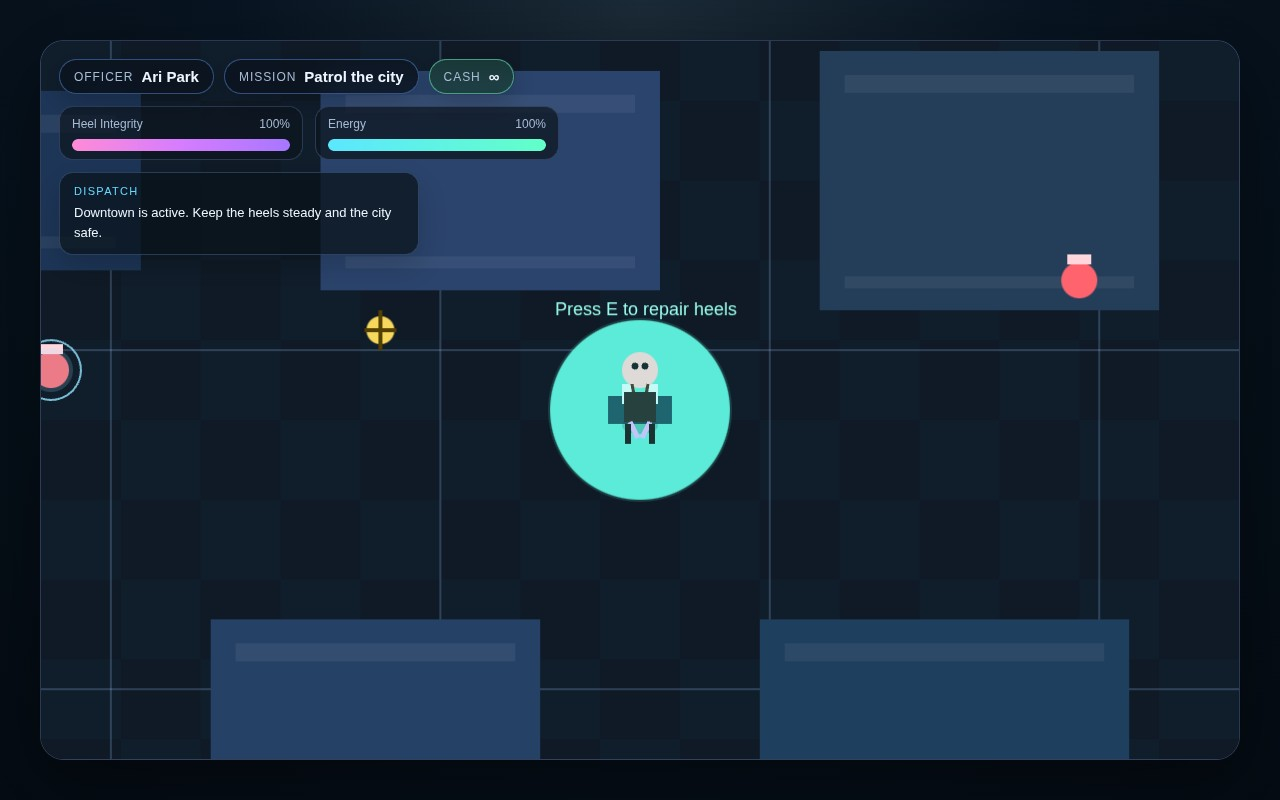
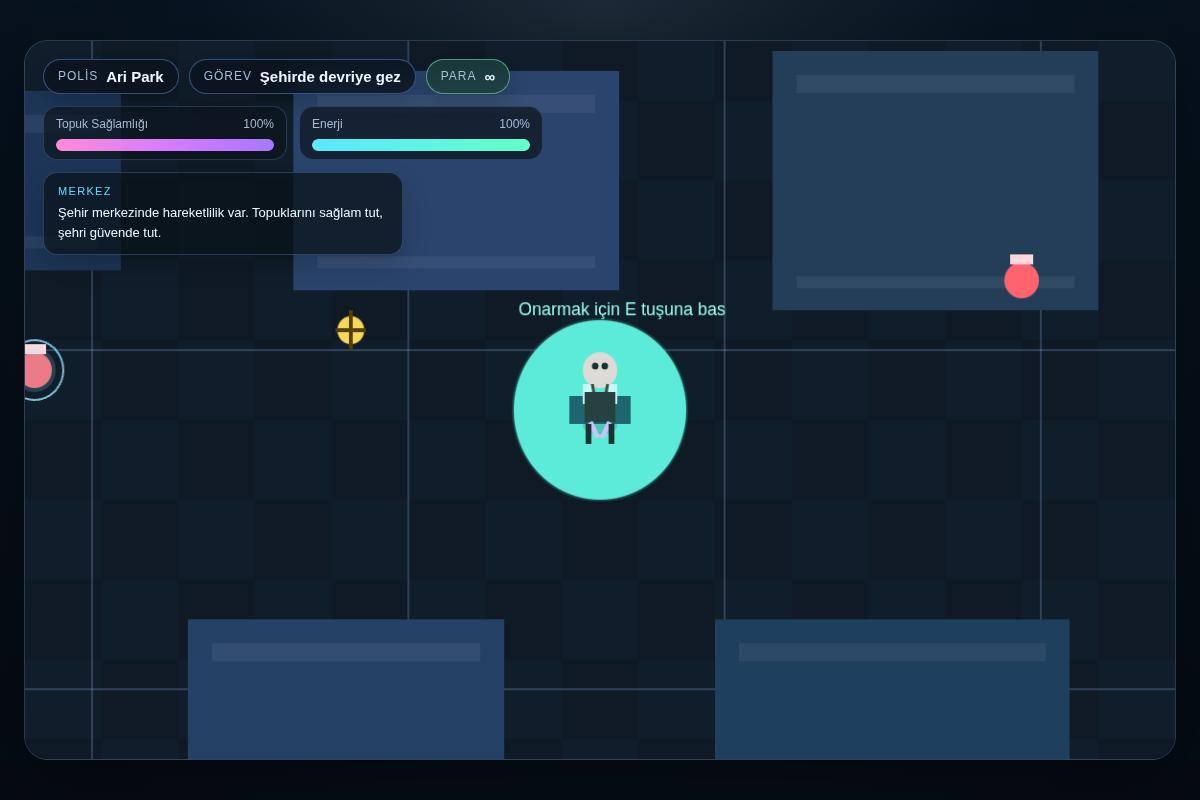
Publish static build for issue #3
Run: 43627223294
Attempt: 1
Generation: 5
Source: e72d35e35dca67fabd8f09816c2d658437840635

diff --git a/game.js b/game.js
@@ -35,19 +35,19 @@ const buildingRects = [
 const shop = { x: 1080, y: 550, radius: 90 };
 
 const suspectSpawns = [
-  { x: 490, y: 510, radius: 18, name: 'Rooftop thief' },
-  { x: 1520, y: 420, radius: 18, name: 'Stolen bike gang' },
-  { x: 980, y: 1480, radius: 18, name: 'Counterfeit ring' },
-  { x: 1820, y: 990, radius: 18, name: 'Bodega arson' },
-  { x: 650, y: 1800, radius: 18, name: 'Extortion crew' }
+  { x: 490, y: 510, radius: 18, name: 'Çatı hırsızı' },
+  { x: 1520, y: 420, radius: 18, name: 'Bisiklet hırsızları çetesi' },
+  { x: 980, y: 1480, radius: 18, name: 'Sahte yüzük çetesi' },
+  { x: 1820, y: 990, radius: 18, name: 'Bakkal kundakçısı' },
+  { x: 650, y: 1800, radius: 18, name: 'Gasp çetesi' }
 ];
 
 const evidenceSpawns = [
-  { x: 340, y: 930, radius: 14, type: 'cash trace' },
-  { x: 820, y: 470, radius: 14, type: 'phone signal' },
-  { x: 1490, y: 1010, radius: 14, type: 'lockpick kit' },
-  { x: 1810, y: 1650, radius: 14, type: 'stolen invoice' },
-  { x: 1120, y: 1950, radius: 14, type: 'tracked bag' }
+  { x: 340, y: 930, radius: 14, type: 'para izi' },
+  { x: 820, y: 470, radius: 14, type: 'telefon sinyali' },
+  { x: 1490, y: 1010, radius: 14, type: 'maymuncuk takımı' },
+  { x: 1810, y: 1650, radius: 14, type: 'çalınmış fatura' },
+  { x: 1120, y: 1950, radius: 14, type: 'takip cihazlı çanta' }
 ];
 
 const game = {
@@ -61,7 +61,7 @@ const game = {
   objectivesCleared: 0,
   currentMessage: '',
   messageTimer: 0,
-  missionState: 'Patrol the city'
+  missionState: 'Şehirde devriye gez'
 };
 
 const player = {
@@ -74,13 +74,13 @@ const player = {
   direction: 0,
   invulnerable: 0,
   canMove: true,
-  attire: 'Black heels'
+  attire: 'Siyah topuklu ayakkabılar'
 };
 
 const worldState = {
   suspects: suspectSpawns.map((item) => ({ ...item, captured: false })),
   evidence: evidenceSpawns.map((item) => ({ ...item, collected: false })),
-  objectiveText: 'Escort the petition run and check all hotspots.'
+  objectiveText: 'Dilekçe konvoyuna eşlik et ve tüm olay noktalarını kontrol et.'
 };
 
 const camera = { x: 0, y: 0 };
@@ -114,9 +114,9 @@ function resetGame() {
   restartBtn.classList.add('hidden');
   worldState.suspects = suspectSpawns.map((item) => ({ ...item, captured: false }));
   worldState.evidence = evidenceSpawns.map((item) => ({ ...item, collected: false }));
-  updateMissionText('Patrol the city');
-  updateLog('Downtown is active. Keep the heels steady and the city safe.');
-  setMessage('Shift started. Keep moving.');
+  updateMissionText('Şehirde devriye gez');
+  updateLog('Şehir merkezinde hareketlilik var. Topuklarını sağlam tut, şehri güvende tut.');
+  setMessage('Vardiya başladı. Harekete geç.');
 }
 
 function clamp(value, min, max) {
@@ -138,7 +138,7 @@ function updateMissionText(text) {
 }
 
 function updateLog(text) {
-  missionLog.innerHTML = `<div class="log-title">Dispatch</div><p>${text}</p>`;
+  missionLog.innerHTML = `<div class="log-title">Merkez</div><p>${text}</p>`;
 }
 
 function handleInteraction() {
@@ -146,12 +146,12 @@ function handleInteraction() {
     if (player.heelIntegrity < 100 || player.energy < 100) {
       player.heelIntegrity = 100;
       player.energy = 100;
-      setMessage('New heels fitted. Officer back in motion.');
-      updateLog('Shoe store restocked. Heel replacement completed before the next alert.');
+      setMessage('Yeni topuklu ayakkabılarını giydin. Devriyeye hazırsın.');
+      updateLog('Ayakkabı mağazası stoklarını yeniledi. Yeni bir ihbar gelmeden topukların değiştirildi.');
       return;
     }
 
-    setMessage('Heels and energy already at full strength.');
+    setMessage('Topukların ve enerjin zaten tamamen dolu.');
     return;
   }
 
@@ -159,16 +159,16 @@ function handleInteraction() {
   if (suspect) {
     suspect.captured = true;
     game.objectivesCleared += 1;
-    setMessage(`Suspect caught: ${suspect.name}.`);
-    updateLog(`Suspect neutralized: ${suspect.name}. Patrol route is holding.`);
+    setMessage(`Şüpheli yakalandı: ${suspect.name}.`);
+    updateLog(`${suspect.name} etkisiz hâle getirildi. Devriye güzergâhı güvende.`);
     checkCompletion();
   }
 
   const evidence = worldState.evidence.find((e) => !e.collected && distance(player.x, player.y, e.x, e.y) < 34);
   if (evidence) {
     evidence.collected = true;
-    setMessage(`Evidence secured: ${evidence.type}.`);
-    updateLog(`Recovered ${evidence.type}. Every clue strengthens the case.`);
+    setMessage(`Delil güvenceye alındı: ${evidence.type}.`);
+    updateLog(`${evidence.type} bulundu. Her ipucu davayı güçlendiriyor.`);
     checkCompletion();
   }
 }
@@ -178,9 +178,9 @@ function checkCompletion() {
   const allEvidenceCollected = worldState.evidence.every((e) => e.collected);
 
   if (allSuspectsCaught && allEvidenceCollected) {
-    updateMissionText('Shift complete');
-    updateLog('City secured. All suspects are accounted for and the evidence trail is closed.');
-    setMessage('Mission complete. The city is safe tonight.');
+    updateMissionText('Vardiya tamamlandı');
+    updateLog('Şehir güvence altında. Tüm şüpheliler yakalandı ve delil zinciri tamamlandı.');
+    setMessage('Görev tamamlandı. Bu gece şehir güvende.');
     game.active = false;
     restartBtn.classList.remove('hidden');
   }
@@ -235,8 +235,8 @@ function updatePlayer(dt) {
   if (player.heelIntegrity <= 0) {
     // Keep a slow limp available so a broken heel never soft-locks the shift.
     player.canMove = true;
-    setMessage('Heels damaged. Head to the shoe shop to repair them.');
-    updateLog('The left heel snapped. Shop repair is required before continuing the chase.');
+    setMessage('Topukların hasar gördü. Onarmak için ayakkabı mağazasına git.');
+    updateLog('Sol topuğun kırıldı. Takibe devam etmek için mağazada onarım gerekiyor.');
   }
 
   if (player.energy <= 0) {
@@ -428,7 +428,7 @@ function drawHudEffects() {
     ctx.fill();
     ctx.fillStyle = '#99ffeb';
     ctx.font = '18px sans-serif';
-    ctx.fillText('Press E to repair heels', shop.x - camera.x - 85, shop.y - camera.y - 95);
+    ctx.fillText('Onarmak için E tuşuna bas', shop.x - camera.x - 85, shop.y - camera.y - 95);
   }
 }
 

diff --git a/index.html b/index.html
@@ -1,28 +1,28 @@
 <!DOCTYPE html>
-<html lang="en">
+<html lang="tr">
   <head>
     <meta charset="UTF-8" />
     <meta name="viewport" content="width=device-width, initial-scale=1.0" />
-    <title>Midnight Heels: City Patrol</title>
+    <title>Gece Topukları: Şehir Devriyesi</title>
     <link rel="icon" href="data:," />
     <link rel="stylesheet" href="styles.css" />
   </head>
   <body>
     <div class="app-shell">
-      <canvas id="gameCanvas" width="1200" height="720" aria-label="City patrol game"></canvas>
+      <canvas id="gameCanvas" width="1200" height="720" aria-label="Şehir devriyesi oyunu"></canvas>
 
       <div class="hud">
         <div class="top-bar">
           <div class="pill">
-            <span class="label">Officer</span>
+            <span class="label">Polis</span>
             <strong id="officerName">Ari Park</strong>
           </div>
           <div class="pill">
-            <span class="label">Mission</span>
-            <strong id="missionText">Patrol the city</strong>
+            <span class="label">Görev</span>
+            <strong id="missionText">Şehirde devriye gez</strong>
           </div>
           <div class="pill money-pill">
-            <span class="label">Cash</span>
+            <span class="label">Para</span>
             <strong id="moneyText">∞</strong>
           </div>
         </div>
@@ -30,7 +30,7 @@
         <div class="status-grid">
           <div class="meter-wrap">
             <div class="meter-label-row">
-              <span>Heel Integrity</span>
+              <span>Topuk Sağlamlığı</span>
               <span id="heelValue">100%</span>
             </div>
             <div class="meter">
@@ -40,7 +40,7 @@
 
           <div class="meter-wrap">
             <div class="meter-label-row">
-              <span>Energy</span>
+              <span>Enerji</span>
               <span id="energyValue">100%</span>
             </div>
             <div class="meter">
@@ -50,13 +50,13 @@
         </div>
 
         <div class="mission-log" id="missionLog">
-          <div class="log-title">Dispatch</div>
-          <p>Downtown is active. Keep the heels steady and the city safe.</p>
+          <div class="log-title">Merkez</div>
+          <p>Şehir merkezinde hareketlilik var. Topuklarını sağlam tut, şehri güvende tut.</p>
         </div>
       </div>
 
       <div id="messageBox" class="message-box hidden"></div>
-      <button id="restartBtn" class="restart hidden" type="button">Restart Shift</button>
+      <button id="restartBtn" class="restart hidden" type="button">Vardiyayı Yeniden Başlat</button>
     </div>
 
     <script src="game.js"></script>
